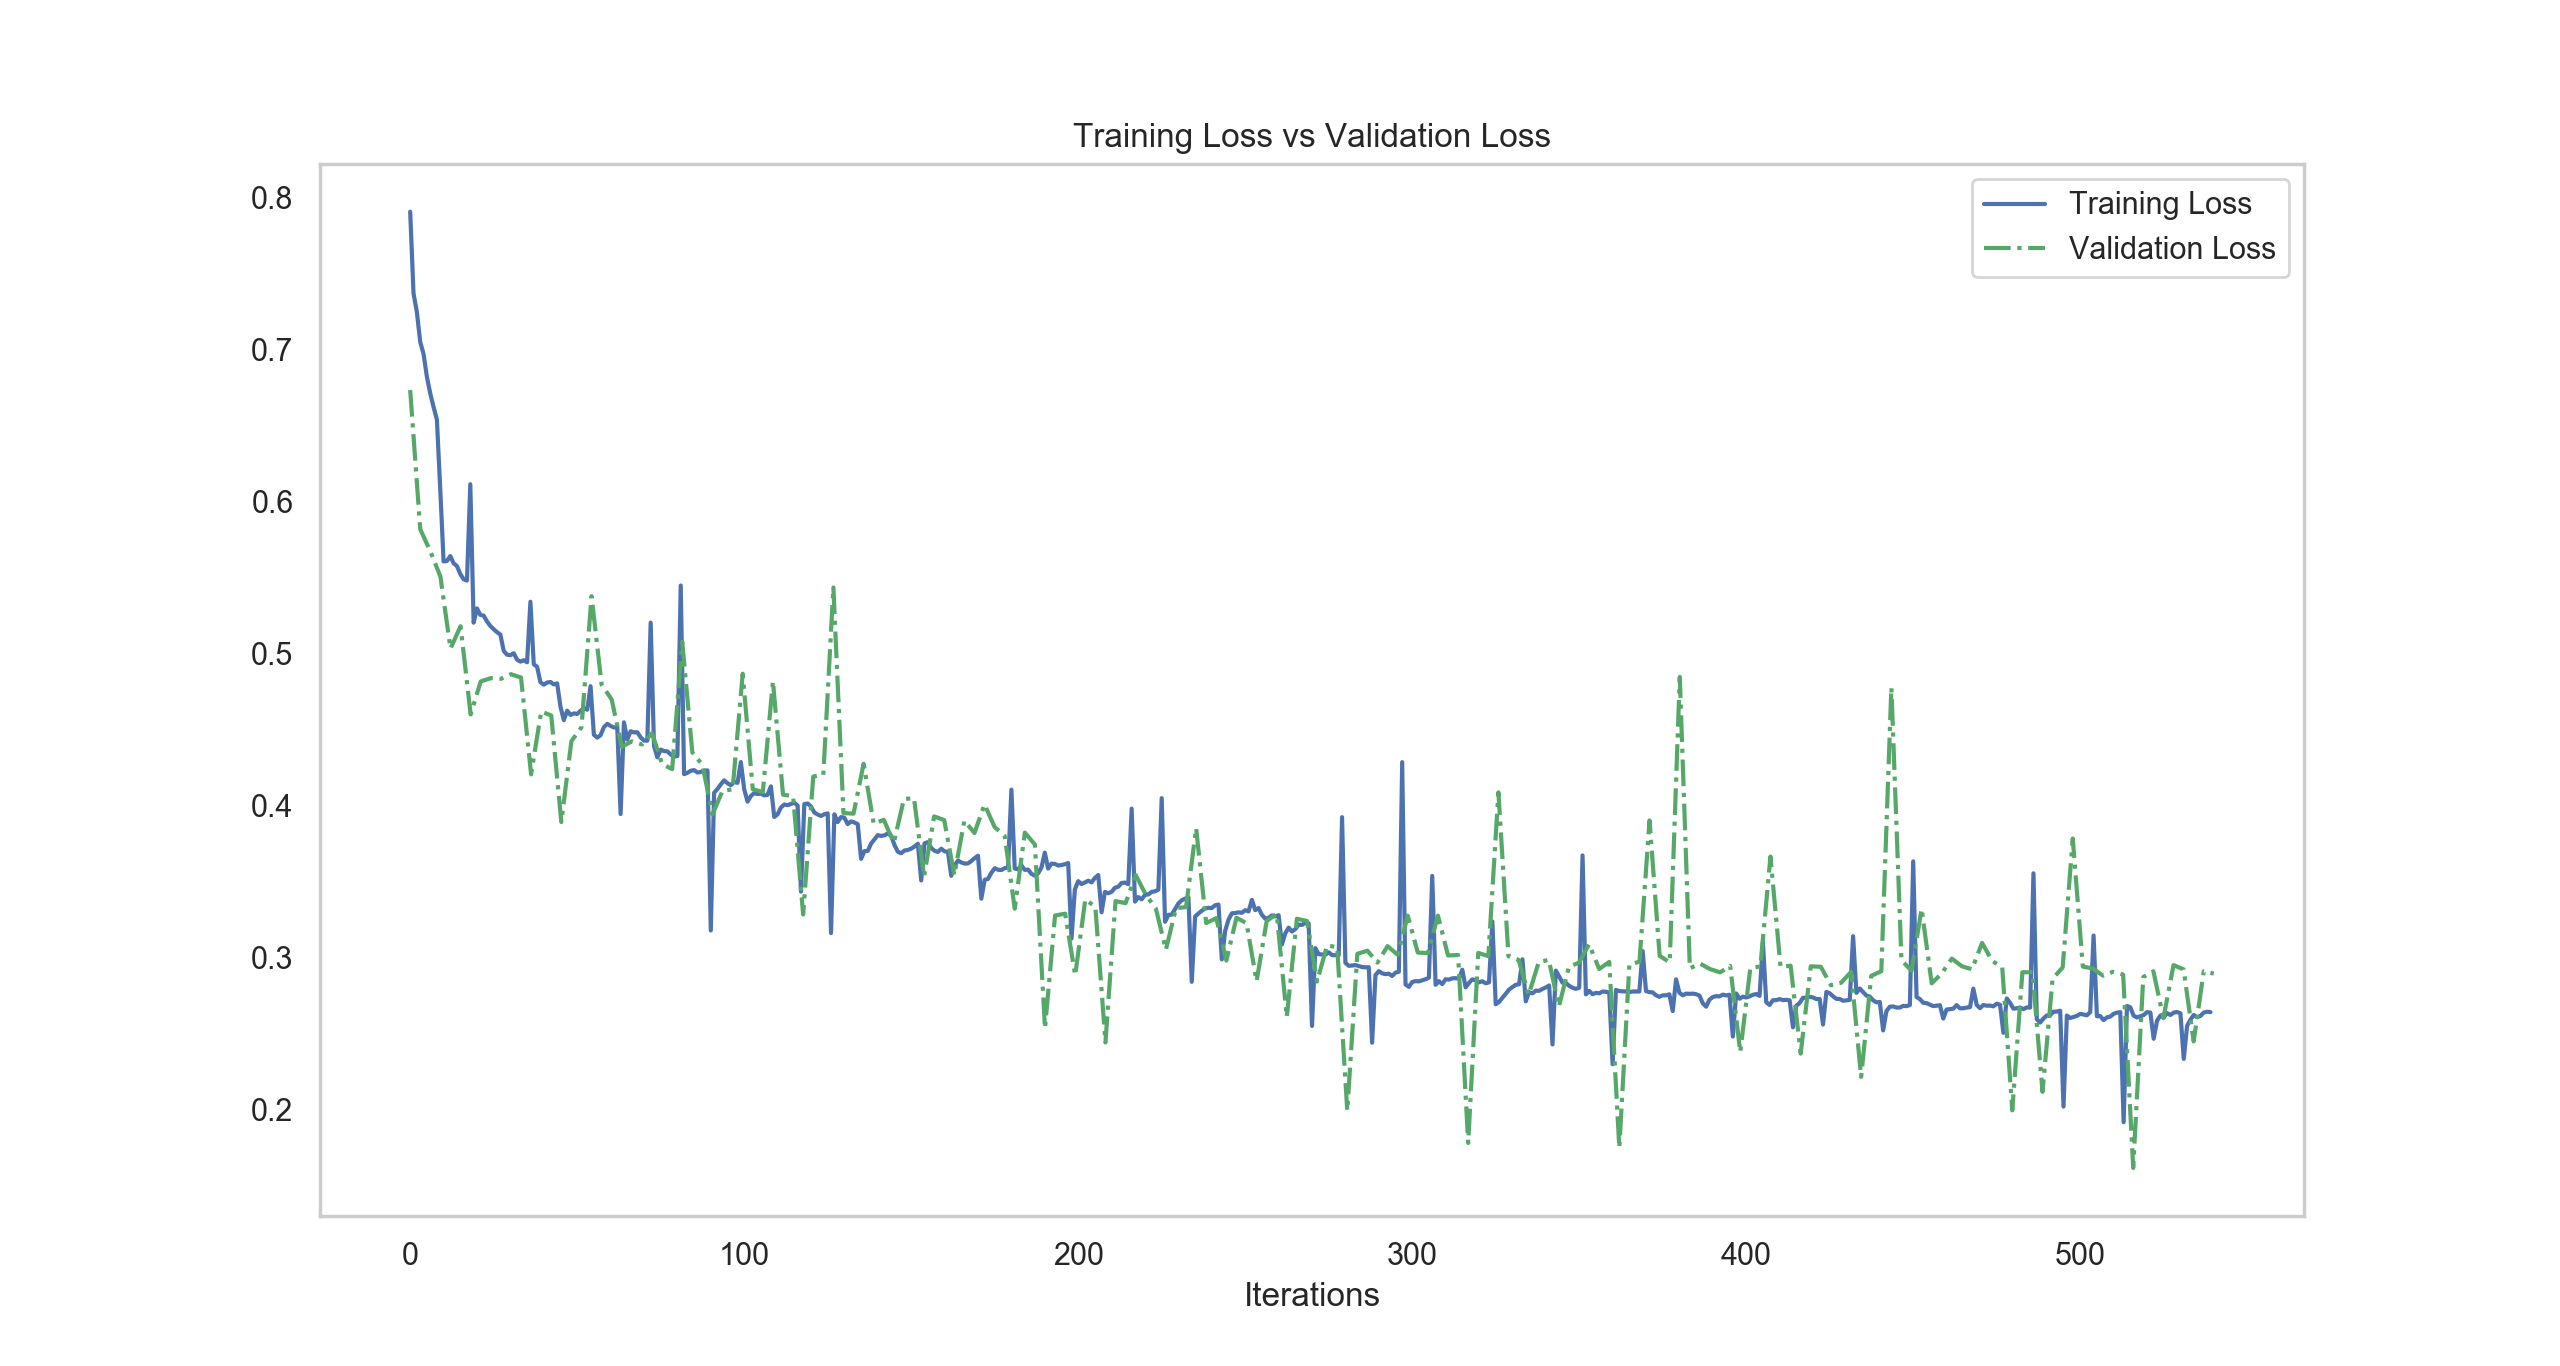
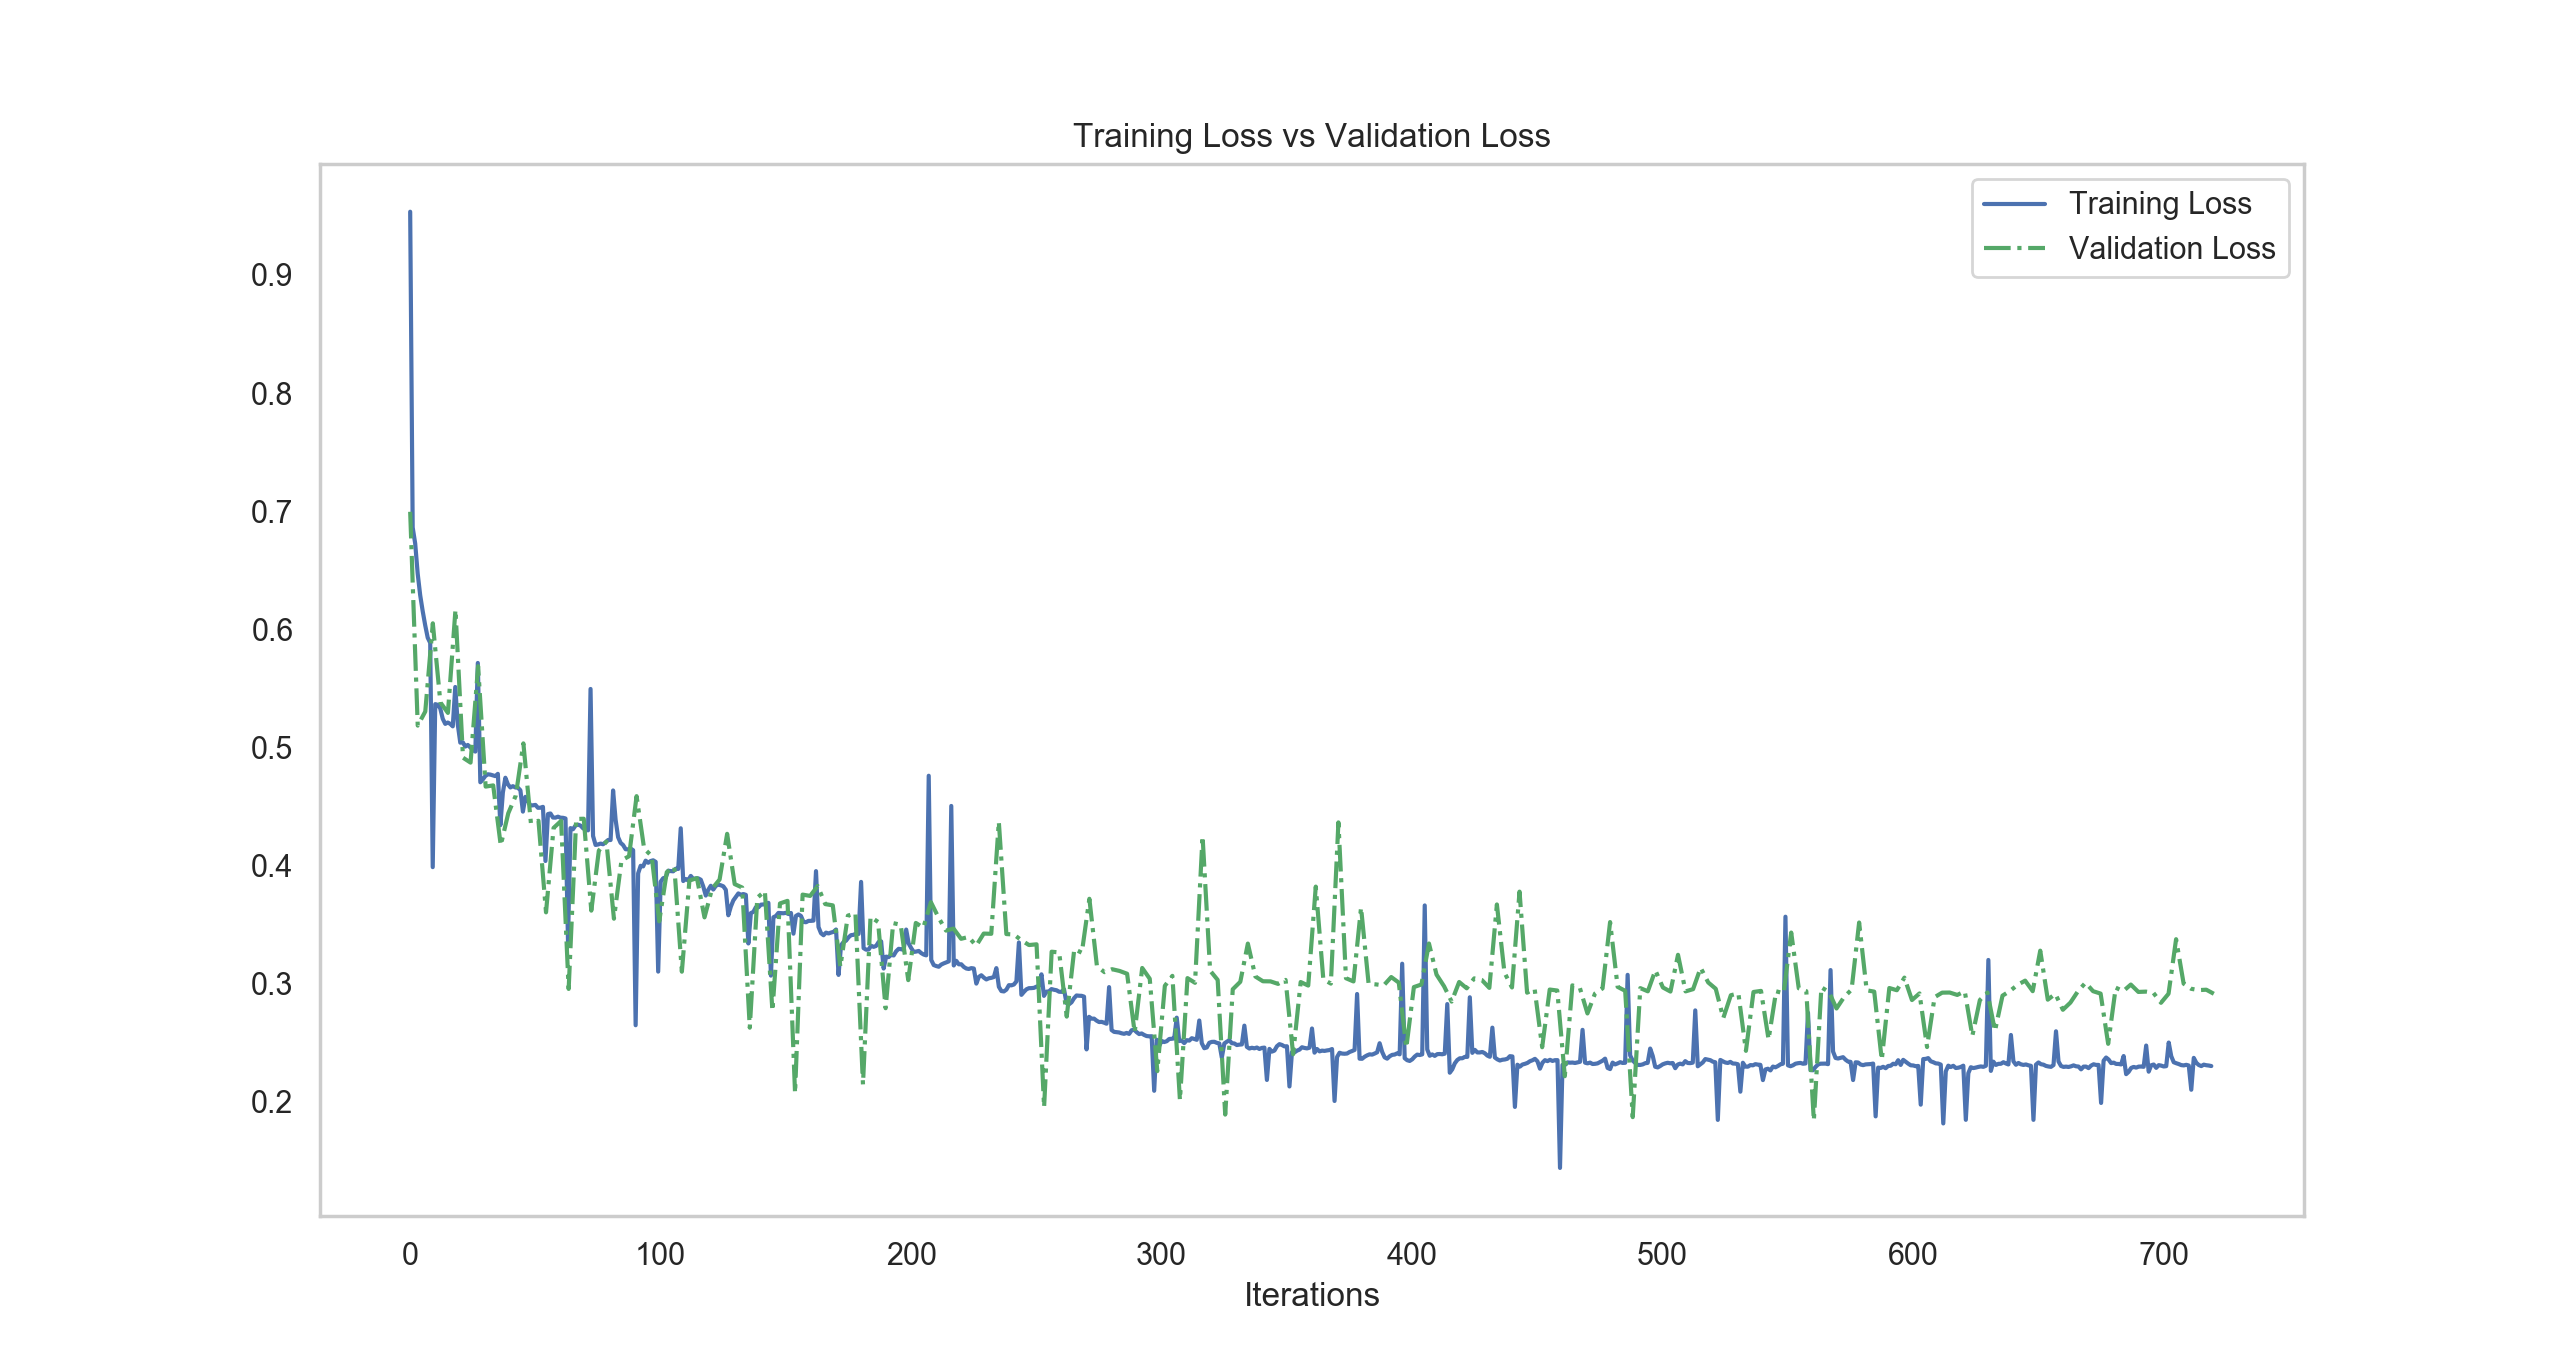
update readme

diff --git a/README.md b/README.md
@@ -53,12 +53,17 @@ We will use Python as the primary programming language and [PyTorch](https://pyt
 
 I have already hosted training data (including track 1 and track 2 individually) in Kaggle dataset and Floydhub. Feel free to download:
 
-- [Kaggle]()
+- [Kaggle](https://www.kaggle.com/zaynena/selfdriving-car-simulator) together with [starter code](https://www.kaggle.com/zaynena/self-driving-car-simulation-demo)
 - [Floydhub](https://www.floydhub.com/zhenye/datasets/self-driving-sim)
 
+
+|         Left        |         Center        |         Right        |
+|:-------------------:|:---------------------:|:--------------------:|
+| ![](./img/left.jpg) | ![](./img/center.jpg) | ![](./img/right.jpg) |
+
+
 <div align="center">
-  <img src="./img/pair.png" width="">
-  <p>Image pair from left, center and right</p>
+  <p>image pair from left, center and right</p>
 </div><br>
 
 
@@ -351,7 +356,7 @@ True
 
 |             ![](./img/loss1.png)            |             ![](./img/loss2.png)            |
 |:-------------------------------------------:|:-------------------------------------------:|
-| Training loss vs Validation loss in track 1 | Training loss vs Validation loss in track 1 |
+| Training loss vs Validation loss in track 1 | Training loss vs Validation loss in track 2 |
 
 
 
